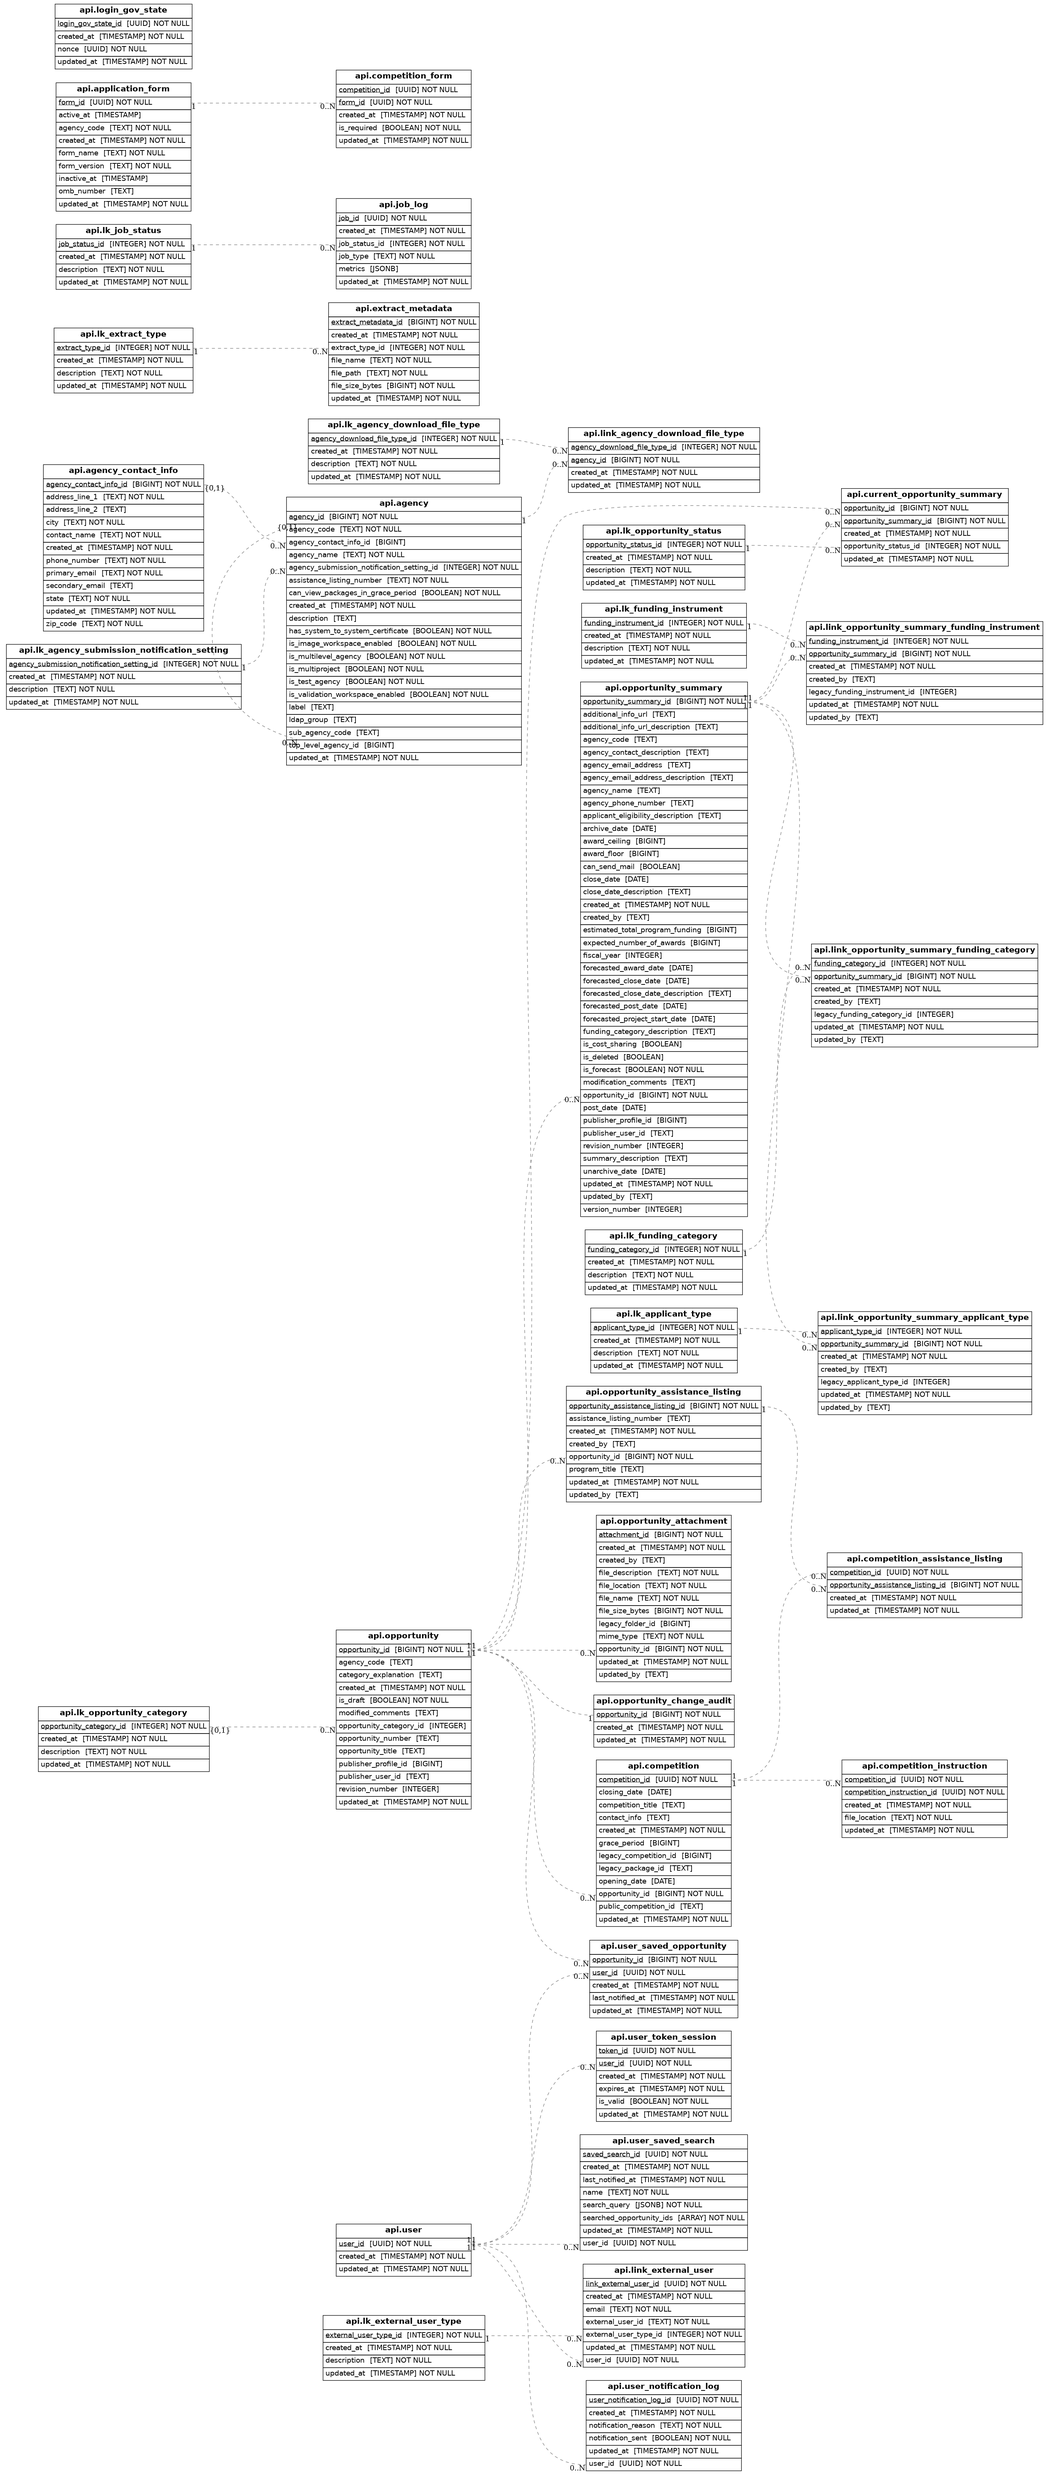
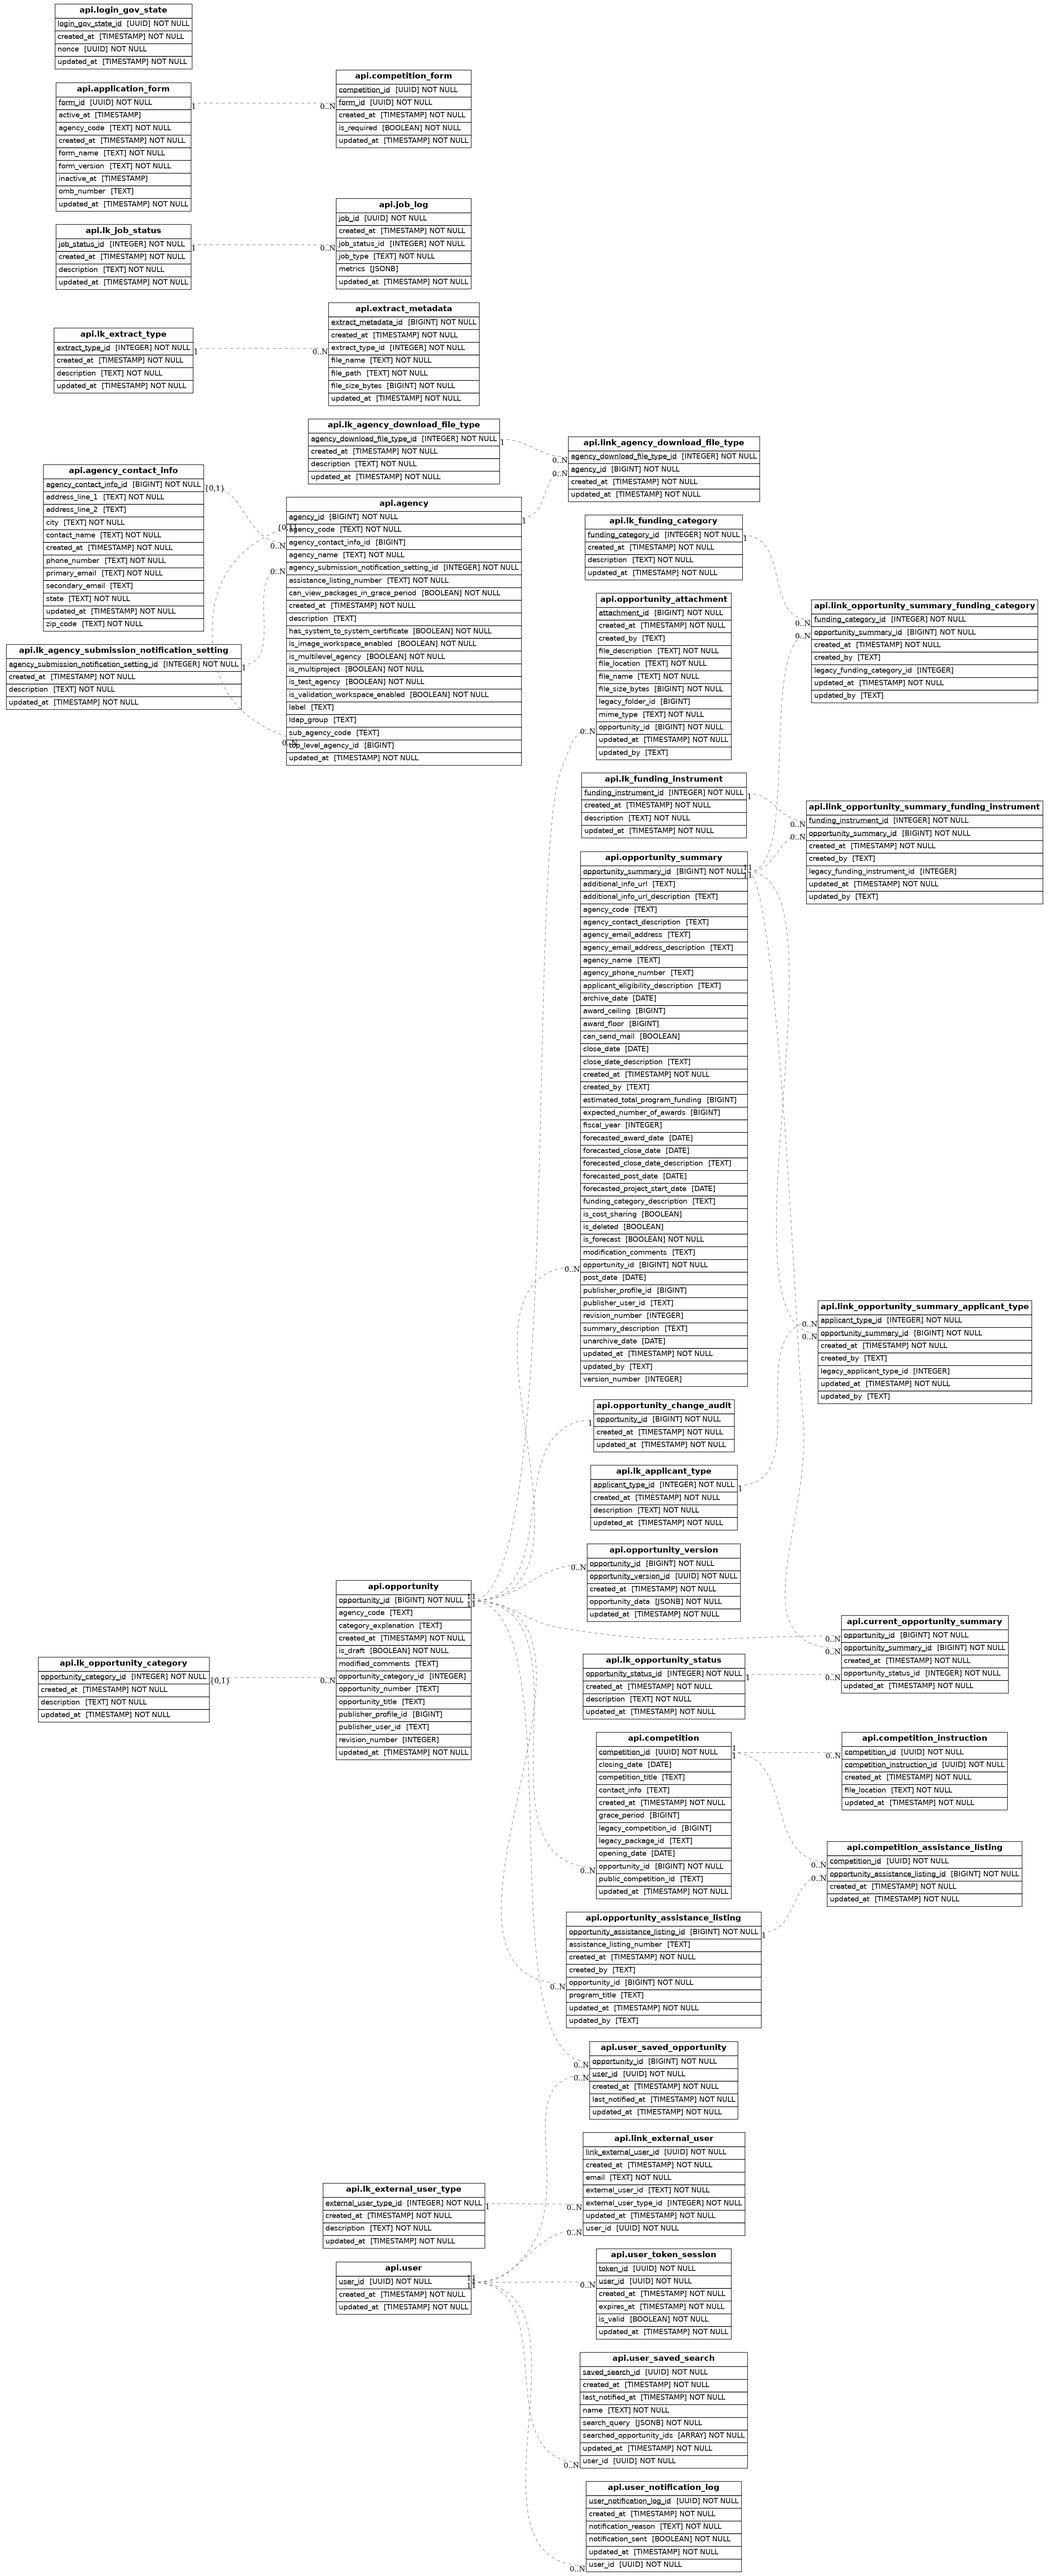
[Issue #3860] Create opportunity_version Table (#3917)
## Summary
Fixes #{[3860](https://github.com/HHS/simpler-grants-gov/issues/3860)}

### Time to review: __5 mins__

## Changes proposed
Added OpportunityVersion Model
Added OpportunityVersionFactory
Migration Script to create table

---------

diff --git a/api/src/db/migrations/versions/2025_02_20_add_opportunity_version.py b/api/src/db/migrations/versions/2025_02_20_add_opportunity_version.py
@@ -1,0 +1,55 @@
+"""add opportunity version
+
+Revision ID: 20590d71bc20
+Revises: d5f73aa58acb
+Create Date: 2025-02-20 17:46:56.068111
+
+"""
+
+import sqlalchemy as sa
+from alembic import op
+from sqlalchemy.dialects import postgresql
+
+# revision identifiers, used by Alembic.
+revision = "20590d71bc20"
+down_revision = "d5f73aa58acb"
+branch_labels = None
+depends_on = None
+
+
+def upgrade():
+    # ### commands auto generated by Alembic - please adjust! ###
+    op.create_table(
+        "opportunity_version",
+        sa.Column("opportunity_version_id", sa.UUID(), nullable=False),
+        sa.Column("opportunity_id", sa.BigInteger(), nullable=False),
+        sa.Column("opportunity_data", postgresql.JSONB(astext_type=sa.Text()), nullable=False),
+        sa.Column(
+            "created_at",
+            sa.TIMESTAMP(timezone=True),
+            server_default=sa.text("now()"),
+            nullable=False,
+        ),
+        sa.Column(
+            "updated_at",
+            sa.TIMESTAMP(timezone=True),
+            server_default=sa.text("now()"),
+            nullable=False,
+        ),
+        sa.ForeignKeyConstraint(
+            ["opportunity_id"],
+            ["api.opportunity.opportunity_id"],
+            name=op.f("opportunity_version_opportunity_id_opportunity_fkey"),
+        ),
+        sa.PrimaryKeyConstraint(
+            "opportunity_version_id", "opportunity_id", name=op.f("opportunity_version_pkey")
+        ),
+        schema="api",
+    )
+    # ### end Alembic commands ###
+
+
+def downgrade():
+    # ### commands auto generated by Alembic - please adjust! ###
+    op.drop_table("opportunity_version", schema="api")
+    # ### end Alembic commands ###

diff --git a/api/src/db/models/opportunity_models.py b/api/src/db/models/opportunity_models.py
@@ -1,7 +1,9 @@
+import uuid
 from datetime import date
 from typing import TYPE_CHECKING
 
 from sqlalchemy import BigInteger, ForeignKey, UniqueConstraint
+from sqlalchemy.dialects.postgresql import JSONB, UUID
 from sqlalchemy.ext.associationproxy import AssociationProxy, association_proxy
 from sqlalchemy.orm import Mapped, mapped_column, relationship
 
@@ -456,3 +458,18 @@ class OpportunityChangeAudit(ApiSchemaTable, TimestampMixin):
         BigInteger, ForeignKey(Opportunity.opportunity_id), primary_key=True, index=True
     )
     opportunity: Mapped[Opportunity] = relationship(Opportunity)
+
+
+class OpportunityVersion(ApiSchemaTable, TimestampMixin):
+    __tablename__ = "opportunity_version"
+
+    opportunity_version_id: Mapped[uuid.UUID] = mapped_column(
+        UUID, primary_key=True, default=uuid.uuid4
+    )
+
+    opportunity_id: Mapped[int] = mapped_column(
+        BigInteger, ForeignKey(Opportunity.opportunity_id), primary_key=True
+    )
+    opportunity: Mapped[Opportunity] = relationship(Opportunity)
+
+    opportunity_data: Mapped[dict] = mapped_column(JSONB)

diff --git a/api/tests/src/db/models/factories.py b/api/tests/src/db/models/factories.py
@@ -1900,3 +1900,15 @@ class CompetitionFormFactory(BaseFactory):
     form_id = factory.LazyAttribute(lambda o: o.application_form.form_id)
 
     is_required = False
+
+
+class OpportunityVersionFactory(BaseFactory):
+    class Meta:
+        model = opportunity_models.OpportunityVersion
+
+    opportunity_version_id = Generators.UuidObj
+
+    opportunity = factory.SubFactory(OpportunityFactory)
+    opportunity_id = factory.LazyAttribute(lambda o: o.opportunity.opportunity_id)
+
+    opportunity_data = factory.LazyAttribute(lambda o: o.opportunity_data)
